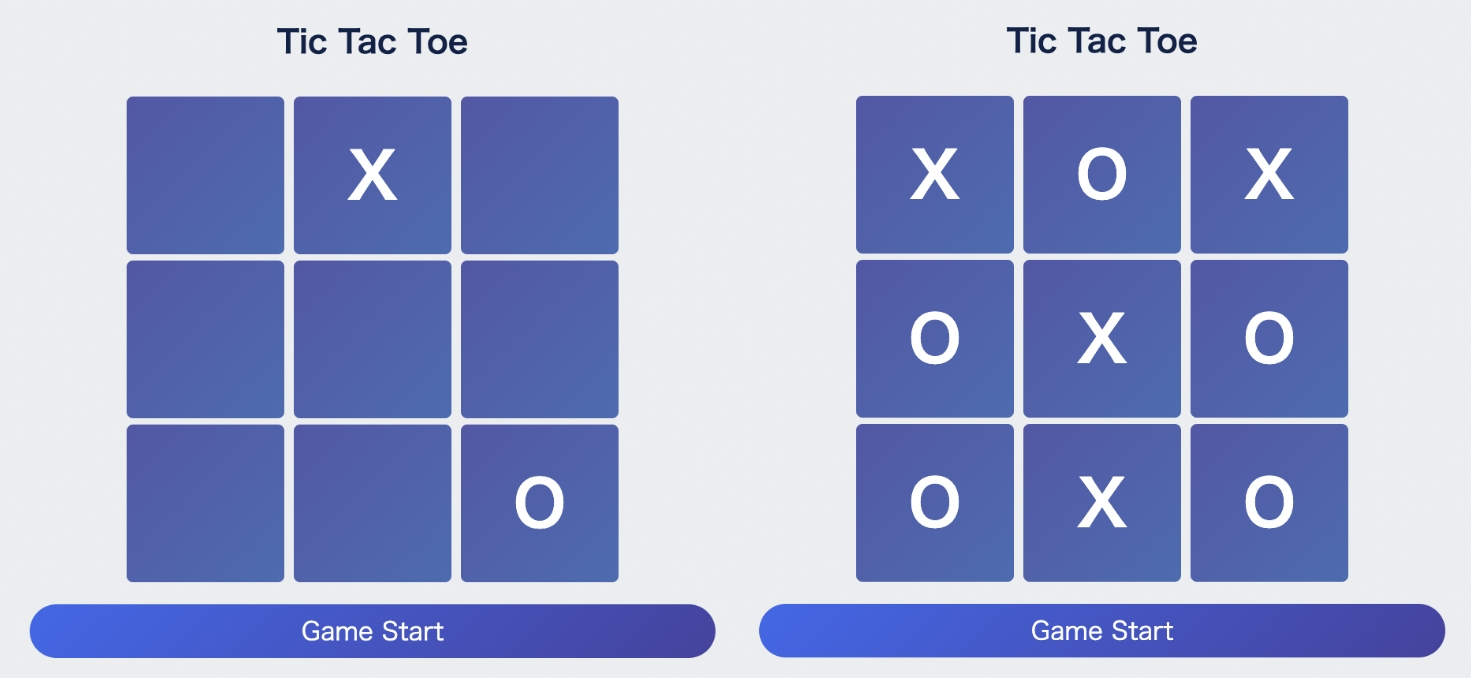
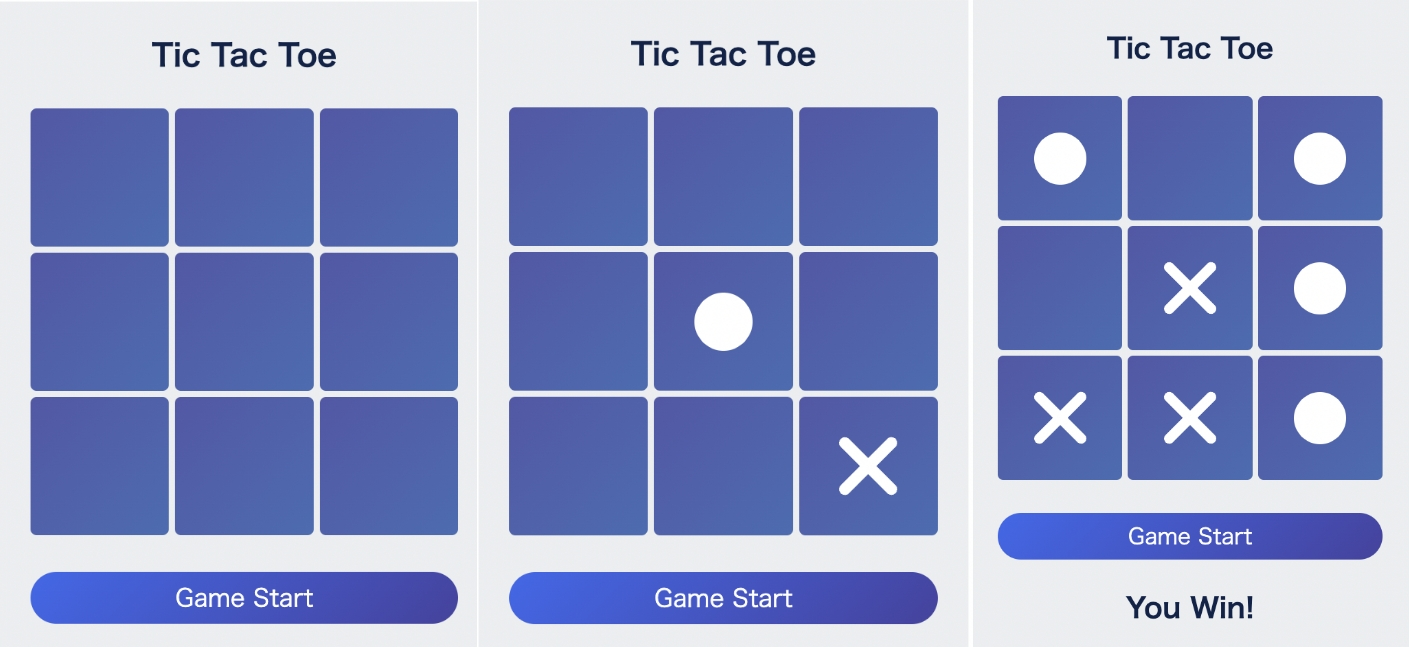
feat: props adapter

diff --git a/src/TicTacToe/index.tsx b/src/TicTacToe/index.tsx
@@ -1,38 +1,25 @@
 import React from 'react';
 import styles from './style.module.css';
 import { useHooks } from './hooks';
+import { useAdapter } from './adapter';
+import { Props } from './interface';
 import TicTacToeItem from '../TicTacToeItem';
-
-/** 初期値 */
-const defaultConfig = {
-  squareSize: 3,
-  title: 'Tic Tac Toe',
-  startButtonTitle: 'Game Start',
-};
-
-interface Props {
-  /** タイトル */
-  readonly title?: string;
-  /** 開始ボタンタイトル */
-  readonly startButtonTitle?: string;
-  /** 縦横の列数 */
-  readonly squareSize?: number;
-}
+import { GameEndType } from '../interface/item';
 
 /**
  * TicTacToe Compornent
  */
 const TicTacToe: React.FC<Props> = (p: Props): JSX.Element => {
-  const squareSize = p.squareSize || defaultConfig.squareSize;
-  const size = squareSize < 2 ? 2 : squareSize;
-  const { rows, onClickItem, onClickStart } = useHooks(size);
-  const title = p.title || defaultConfig.title;
-  const startTitle = p.startButtonTitle || defaultConfig.startButtonTitle;
+  const { size, title, startTitle, textWinMe, textWinEnemy, textDraw } =
+    useAdapter(p);
+  const { rows, winner, onClickItem, onClickStart } = useHooks(size);
   const width = 100 / size - 1 + '%';
 
   return (
     <div className={styles.wrapper}>
       <div className={styles.title}>{title}</div>
+
+      <div className={styles.spacer} />
 
       <div>
         {rows.map((line, i) => (
@@ -54,6 +41,18 @@ const TicTacToe: React.FC<Props> = (p: Props): JSX.Element => {
       <div className={styles.buttonGame} onClick={onClickStart}>
         {startTitle}
       </div>
+
+      {winner && (
+        <>
+          <div className={styles.spacer} />
+
+          <div className={styles.title}>
+            {winner === GameEndType.WinMe && <>{textWinMe}</>}
+            {winner === GameEndType.WinEnemy && <>{textWinEnemy}</>}
+            {winner === GameEndType.Draw && <>{textDraw}</>}
+          </div>
+        </>
+      )}
     </div>
   );
 };

diff --git a/src/TicTacToe/adapter.ts b/src/TicTacToe/adapter.ts
@@ -1,0 +1,47 @@
+import { Props } from './interface';
+
+/**
+ * 初期値
+ */
+const defaultConfig = {
+  squareSize: 3,
+  title: 'Tic Tac Toe',
+  startButtonTitle: 'Game Start',
+  textWinMe: 'You Win!',
+  textWinEnemy: 'You Lose!',
+  textDraw: 'Draw!',
+};
+
+/**
+ * 整形
+ */
+interface AdapterReturn {
+  readonly size: number;
+  readonly title: string;
+  readonly startTitle: string;
+  readonly textWinMe: string;
+  readonly textWinEnemy: string;
+  readonly textDraw: string;
+}
+
+/**
+ * adapter
+ */
+export const useAdapter = (p: Props): AdapterReturn => {
+  const squareSize = p.squareSize || defaultConfig.squareSize;
+  const size = squareSize < 2 ? 2 : squareSize;
+  const title = p.title || defaultConfig.title;
+  const startTitle = p.startButtonTitle || defaultConfig.startButtonTitle;
+  const textWinMe = p.textWinMe || defaultConfig.textWinMe;
+  const textWinEnemy = p.textWinEnemy || defaultConfig.textWinEnemy;
+  const textDraw = p.textDraw || defaultConfig.textDraw;
+
+  return {
+    size,
+    title,
+    startTitle,
+    textWinMe,
+    textWinEnemy,
+    textDraw,
+  };
+};

diff --git a/src/TicTacToe/interface.ts b/src/TicTacToe/interface.ts
@@ -1,0 +1,17 @@
+/**
+ * TicTacToeの引数
+ */
+export interface Props {
+  /** タイトル */
+  readonly title?: string;
+  /** 開始ボタンタイトル */
+  readonly startButtonTitle?: string;
+  /** 縦横の列数 */
+  readonly squareSize?: number;
+  /** 勝利テキスト */
+  readonly textWinMe?: string;
+  /** 敗北テキスト */
+  readonly textWinEnemy?: string;
+  /** 引き分けテキスト */
+  readonly textDraw?: string;
+}

diff --git a/src/TicTacToe/hooks.ts b/src/TicTacToe/hooks.ts
@@ -4,7 +4,7 @@ import { random } from '../modules/math';
 import { checkTicTacToe, getAIRow } from './logic';
 
 /**
- *
+ * Hooks: TicTacToe
  */
 export const useHooks = (squareSize: number) => {
   const isFirst = useRef(false);
@@ -154,6 +154,7 @@ export const useHooks = (squareSize: number) => {
 
   return {
     rows,
+    winner,
     setRows,
     onClickItem,
     onClickStart,

diff --git a/src/TicTacToe/style.module.css b/src/TicTacToe/style.module.css
@@ -3,14 +3,13 @@
   padding: 20px;
 }
 .spacer {
-  height: 10px;
+  height: 20px;
 }
 .title {
   color: #0e224a;
   font-weight: bold;
   text-align: center;
   font-size: 20px;
-  padding-bottom: 20px;
 }
 .items {
   display: flex;

diff --git a/src/interface/item.ts b/src/interface/item.ts
@@ -11,7 +11,7 @@ export enum ItemType {
  * ゲームエンド
  */
 export enum GameEndType {
-  Draw = 0,
-  WinMe = 1,
-  WinEnemy = 2,
+  Draw = 1,
+  WinMe = 2,
+  WinEnemy = 3,
 }
